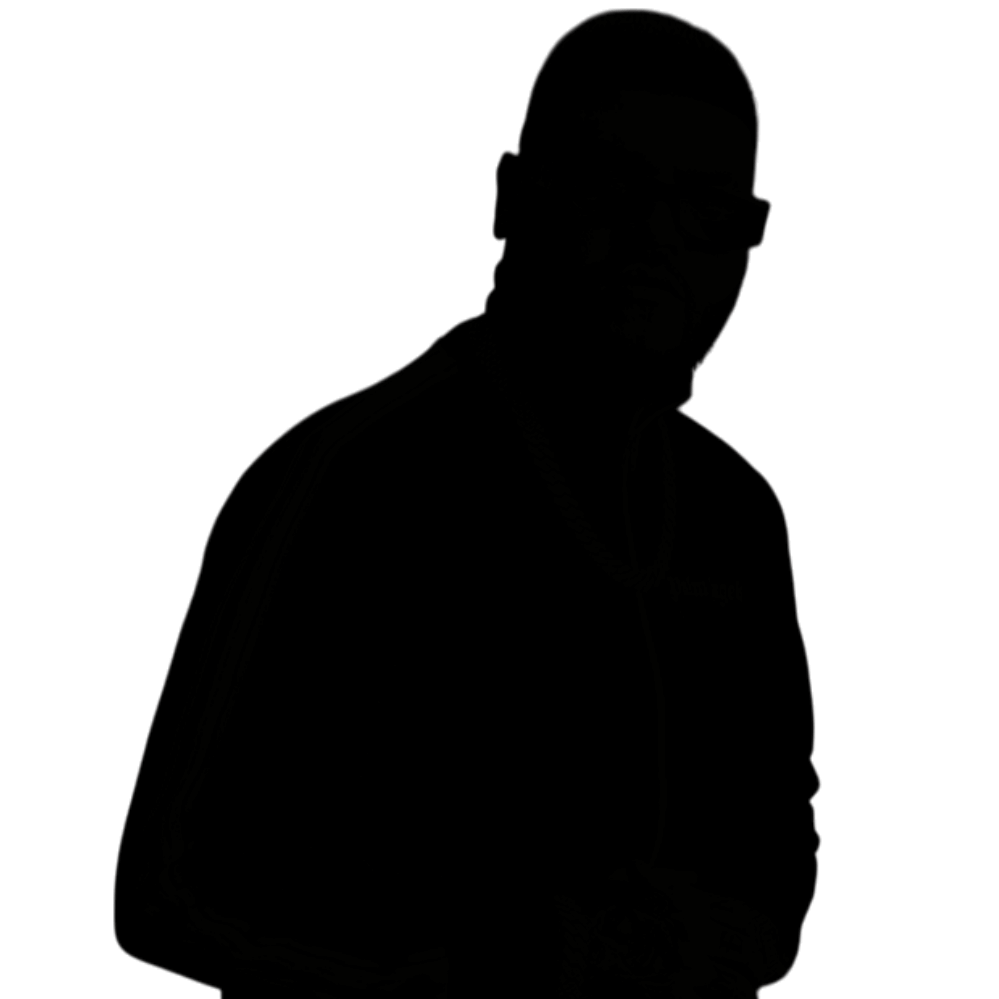
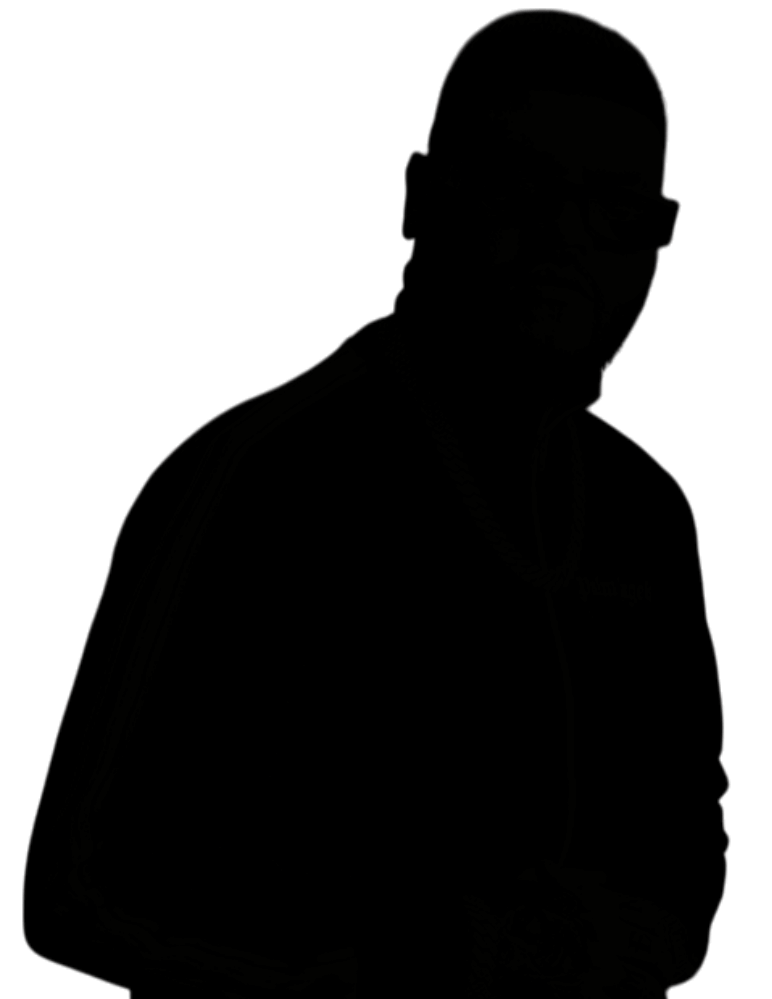
fix: update artist layout styles for improved alignment and background gradient

Changed region(s): [[0.4352, 0.0, 0.9637, 1.0], [0.0311, 0.3724, 0.4041, 1.0], [0.4041, 0.3413, 0.4352, 0.3724]]

diff --git a/frontend/src/layouts/artists.css b/frontend/src/layouts/artists.css
@@ -8,32 +8,37 @@
     position: relative;
     width: 100vw;
     height: 100vh;
-    background: radial-gradient(circle,
+    background: radial-gradient(circle at 50% 70%,
             var(--color-punch) -100%,
-            var(--color-back) 90%);
+            var(--color-back) 60%);
     display: flex;
     justify-content: center;
-    align-items: center;
+    align-items: flex-end;
     
     img {
-        width: 100%;
         height: 100%;
         object-fit: contain;
     }
 }
 
-.artist-left{
-    width: 10%;
-}
-.artists-principal {
-    
-    img{
-        clip-path: polygon(24% 100%, 25% 77%, 23% 75%, 21% 64%, 21% 48%, 22% 44%, 30% 26%, 40% 24%, 42% 21%, 43% 16%, 40% 13%, 41% 9%, 43% 8%, 46% 4%, 50% 1%, 52% 0%, 61% 0%, 66% 7%, 67% 8%, 66% 16%, 68% 19%, 69% 24%, 70% 28%, 75% 34%, 77% 45%, 78% 47%, 79% 59%, 73% 75%, 71% 78%, 67% 84%, 69% 100%);
-        background-color: var(--color-punch);
-    }
+.artist-left, .artist-right{
+    position: absolute;
+    display: flex;
+    justify-content: center;
+    align-items: flex-end;
+    z-index: 1;
 }
 
-.artist-right {
-    width: 10%;
+.artists-principal {
+    position: relative;
+    height: 90%;
+    display: flex;
+    justify-content: center;
+    align-items: flex-end;
+    z-index: 2;
+    img{
+        clip-path: polygon(10% 100%, 10% 77%, 4% 63%, 6% 49%, 4% 44%, 17% 27%, 34% 24%, 38% 20%, 39% 16%, 36% 14%, 36% 11%, 40% 10%, 42% 5%, 45% 2%, 52% 0%, 60% 0%, 65% 0%, 70% 3%, 75% 7%, 78% 8%, 79% 12%, 76% 16%, 73% 17%, 79% 19%, 79% 24%, 82% 29%, 89% 33%, 94% 44%, 96% 49%, 97% 58%, 93% 61%, 88% 75%, 86% 77%, 83% 78%, 79% 83%, 78% 95%, 81% 100%);
+        background-color: var(--color-punch);
+    }
 
 }
